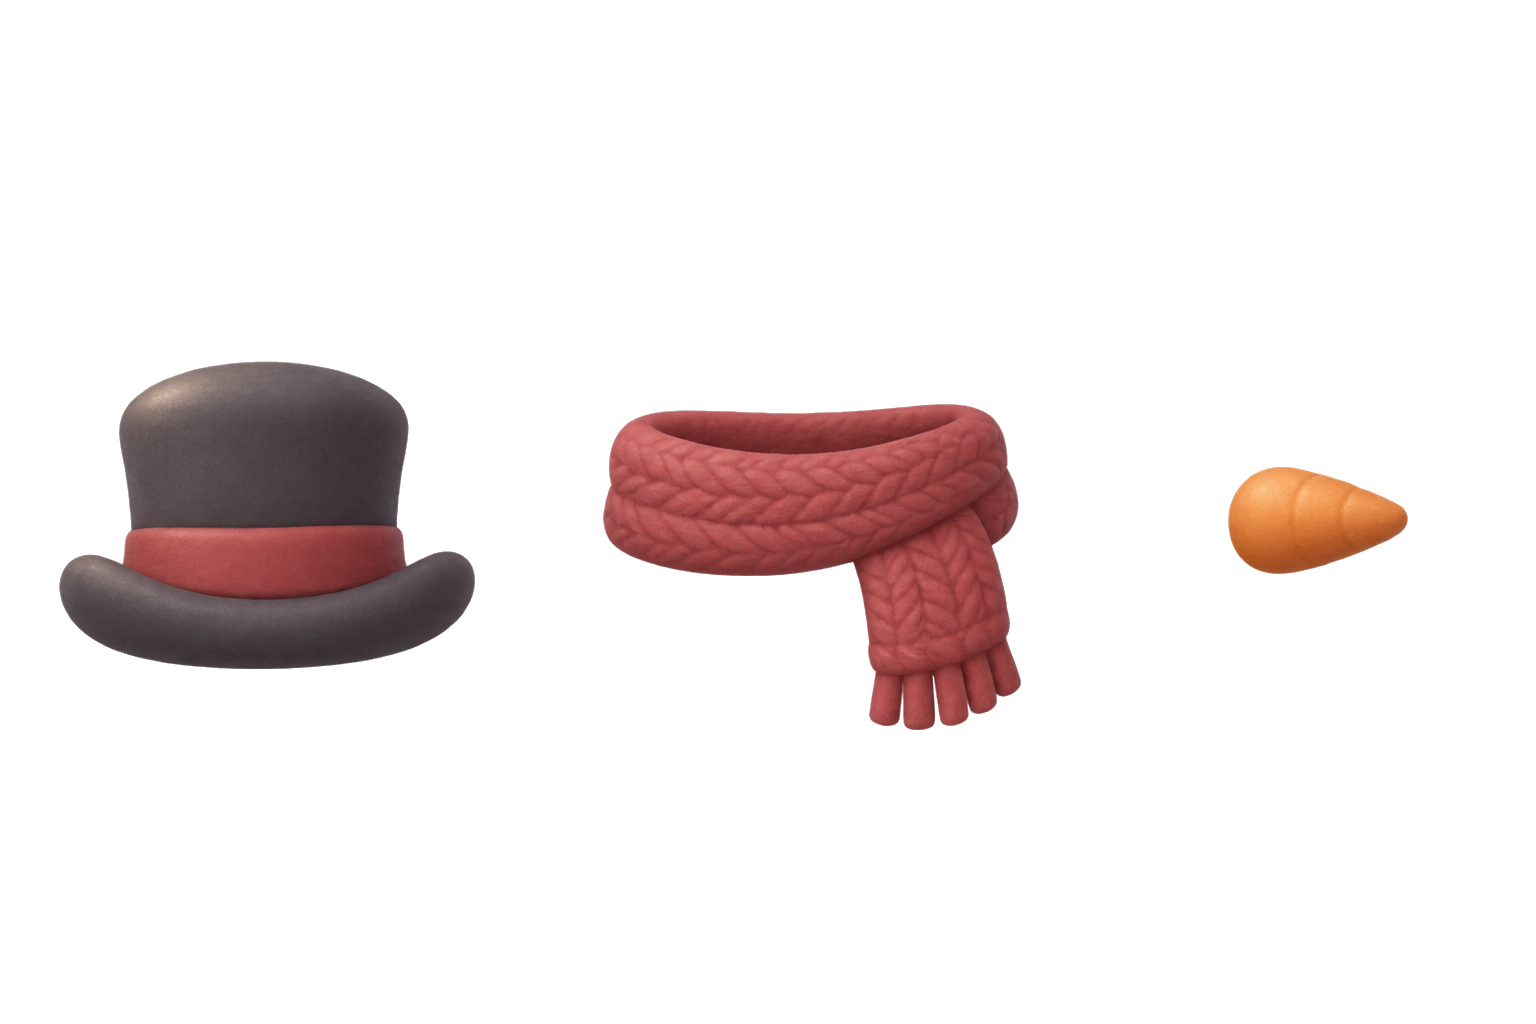
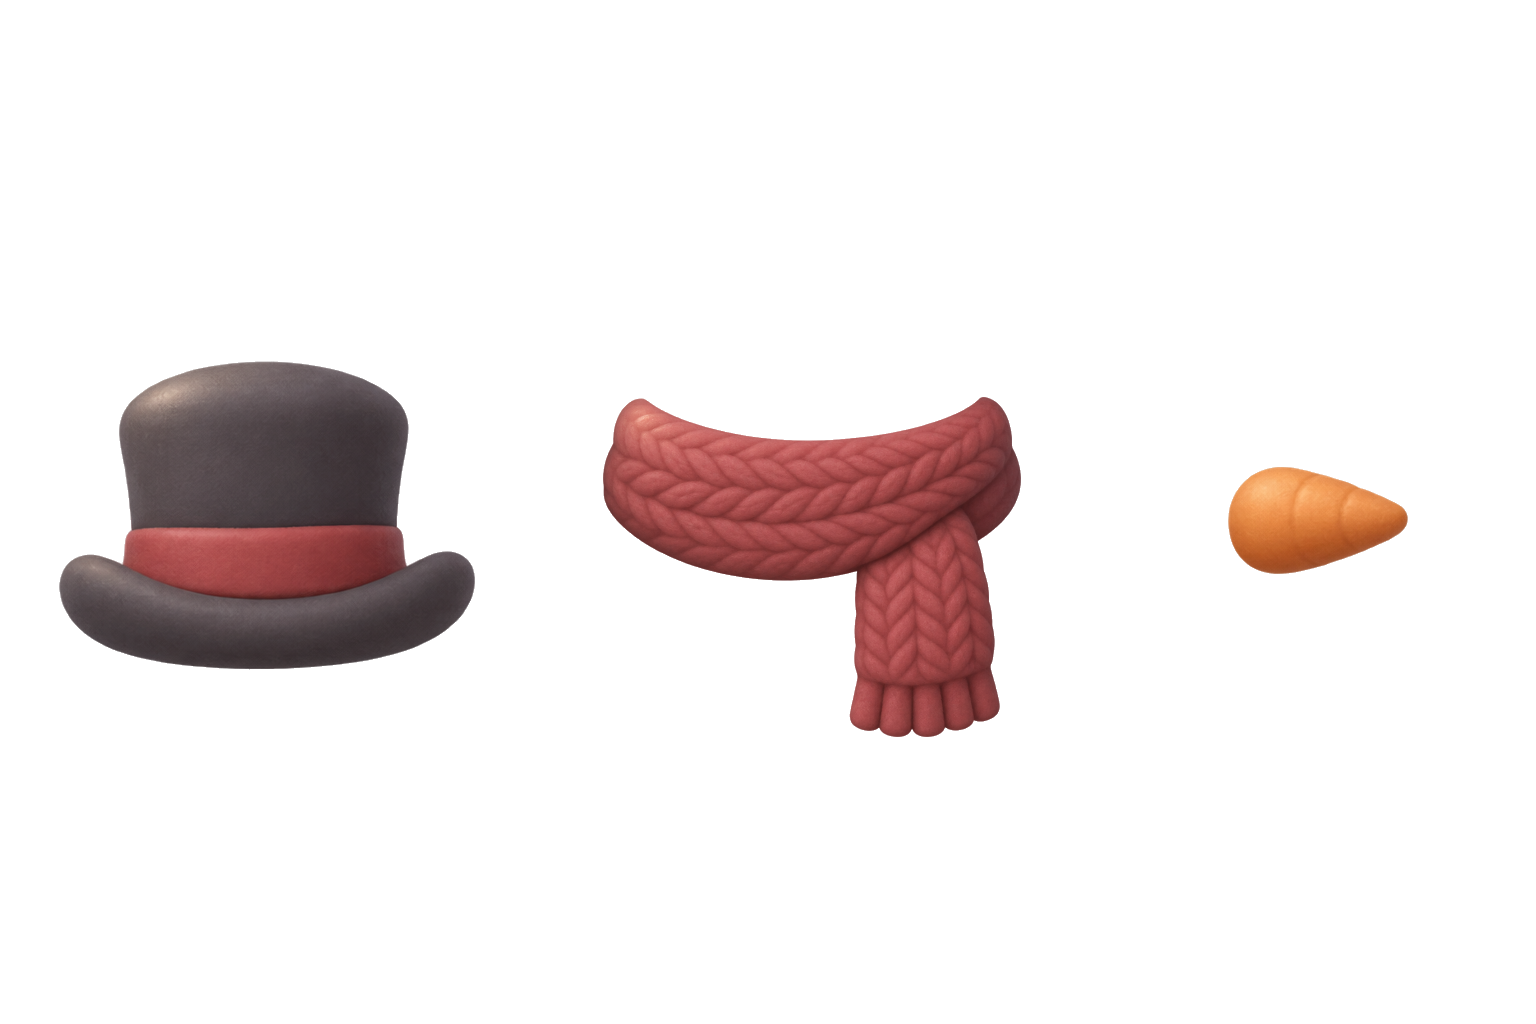
Wrap a snowman's scarf around its neck and set its hat on top of its head
What changed
- The scarf is redrawn as worn, wrapped around the neck with its end hanging down, from a new source (assets/sources/snowman-2026-11-09/snowscarf-worn.png) packed into the snowman-dress atlas; provenance in accepted-art.json and COLLECTION.md.
- The hat rests on the crown above the eyes and leans a little: a dress part may carry a `turn` in degrees (catalog.json), drawn as a rotate.
- Each part casts a soft shade on the snow under it (garden.css .dress-part).
- CHANGELOG and the four 1.6.1 release pages say so.

Why
- The scarf looked laid on the chest, seen from above, and the hat was pulled down to the eyes, so the parts read as pasted on rather than worn.

How it was checked
- tests/snowman-dress.test.mjs pins the hat's width, centre, tilt and that its brim ends above the eyes (fails on the old values); tests/content.test.mjs checks `turn` stays small and non-zero.
- Before/after captures of the dressed snowman by day and night and the dress tray, shown to and accepted by the user.
- pnpm test, pnpm run lint and site:build on the whole branch.

Changed region(s): [[0.375, 0.375, 0.6875, 0.7188]]

diff --git a/src/yard/snowman-dress.js b/src/yard/snowman-dress.js
@@ -41,7 +41,8 @@ function partBox(gift, part) {
 }
 
 /** The parts a snowman of `kind` wears, as spans over its drawing, in the catalogue's (drawing)
- * order; each is placed by its anchor's centre, so a hat may rise above the box. */
+ * order; each is placed by its anchor's centre, so a hat may rise above the box, and turned by its
+ * `turn` (degrees), as a hat sits a little askew. */
 export function dressLayers(kind, dress) {
   const gift = giftKind(kind),
     worn = new Set(dress || []);
@@ -50,7 +51,9 @@ export function dressLayers(kind, dress) {
     .filter(part => worn.has(part.id))
     .map(part => {
       const box = partBox(gift, part);
-      const style = `left:${percent(box.left)}%;top:${percent(box.top)}%;width:${percent(box.width)}%`;
+      const style =
+        `left:${percent(box.left)}%;top:${percent(box.top)}%;width:${percent(box.width)}%` +
+        (part.turn ? `;rotate:${part.turn}deg` : '');
       return `<span class="dress-part" data-part="${part.id}" style="${style}">${artSvg(part.art)}</span>`;
     })
     .join('');

diff --git a/src/styles/garden.css b/src/styles/garden.css
@@ -801,8 +801,11 @@
     opacity: 0;
   }
 }
+/* A soft shade under each part, cast on the snow it rests on, so it sits on the snowman and does
+   not float over it. On the part, not its drawing, which keeps the night's and focus's filters. */
 .dress-part {
   position: absolute;
+  filter: drop-shadow(0 0.6px 0.8px rgb(70 62 96 / 0.35));
 }
 .decor .dress-part svg {
   display: block;

diff --git a/assets/art/COLLECTION.md b/assets/art/COLLECTION.md
@@ -151,6 +151,11 @@ Distinct12 objects only. No neighboring items overlap. All silhouettes clean and
   wrappers with `node scripts/pack-collection.mjs`.
 - Accepted sources, prompts, hashes and measured boxes:
   `assets/sources/snowman-2026-11-09/accepted-art.json`.
+- Later: the scarf was redrawn on 2026-11-12 as it looks worn (`snowscarf-worn`):
+  the first one was a loop seen from above, whose open inside showed on the
+  snowman. It takes the old scarf's place in `snowman-dress`; the hat and the
+  nose are unchanged. The hat now rests on the crown, turned a little
+  (`snowman.dress[].turn`).
 
 ## Winter tails and trail bushes (2026-11-09)
 

diff --git a/CHANGELOG.md b/CHANGELOG.md
@@ -27,6 +27,7 @@ Changes people can see in PlayPets, release by release. The format follows [Keep
 - In a short window, the message box keeps its own line, so its hint and the AI's name show whole.
 - In a small window, a friend's status shows under its name when the window has room for the line.
 - On a touch screen, Settings' sections, the right-click menu and the friend picker keep 44px targets in small windows too.
+- A built snowman wears its scarf wrapped around its neck, redrawn as worn, and its hat on top of its head, a little askew, instead of a scarf laid on its chest and a hat pulled down to its eyes.
 
 ### Fixed
 

diff --git a/website/ja/releases/1.6.1.md b/website/ja/releases/1.6.1.md
@@ -26,6 +26,7 @@ headline: "もっといきいきした庭"
 - 木や花の後ろの贈り物や友だちも、すき間からクリックできます。
 - 虹のふもとは、その日掘っていない地面でだけ光ります。
 - 図鑑は育てた木を木として数え、贈り物は受け取ったと書きます。
+- 雪だるまはマフラーを首に巻き、帽子を頭の上にのせてかぶります。
 - ダークモードで明るいままだったボタンやパネルが暗くなりました。
 
 ## そのほか

diff --git a/website/releases/1.6.1.md b/website/releases/1.6.1.md
@@ -26,6 +26,7 @@ The yard feels more alive: friends bob along as they walk, look smaller farther 
 - A gift or a friend behind a tree or a flower can be clicked through its empty corners.
 - The rainbow's end glimmers only on ground not dug that day.
 - The album counts grown trees in their own words and says a gift was received.
+- A snowman wears its scarf around its neck and its hat on top of its head.
 - In dark mode, a few buttons and panels that stayed light now darken.
 
 ## Also

diff --git a/website/ko/releases/1.6.1.md b/website/ko/releases/1.6.1.md
@@ -26,6 +26,7 @@ headline: "더 살아 있는 놀이터"
 - 나무나 꽃 뒤의 선물과 친구도 빈틈으로 누를 수 있어요.
 - 무지개 끝은 그날 파지 않은 땅에서만 반짝여요.
 - 도감이 키운 나무를 나무에 맞게 세고, 선물은 받았다고 적어요.
+- 눈사람이 목도리를 목에 두르고, 모자는 머리 위에 얹어 써요.
 - 다크 모드에서 밝게 남던 버튼과 패널 몇 곳이 어두워졌어요.
 
 ## 그 밖에

diff --git a/website/zh-hans/releases/1.6.1.md b/website/zh-hans/releases/1.6.1.md
@@ -26,6 +26,7 @@ headline: "更有生气的乐园"
 - 树或花后面的礼物和伙伴，可以从空隙点到。
 - 彩虹尽头只在当天没挖过的地面闪光。
 - 图鉴用树自己的说法数种出的树，礼物写成已收到。
+- 雪人把围巾围在脖子上，帽子戴在头顶。
 - 深色模式下原本发亮的几个按钮和面板，现在会变暗。
 
 ## 其他
